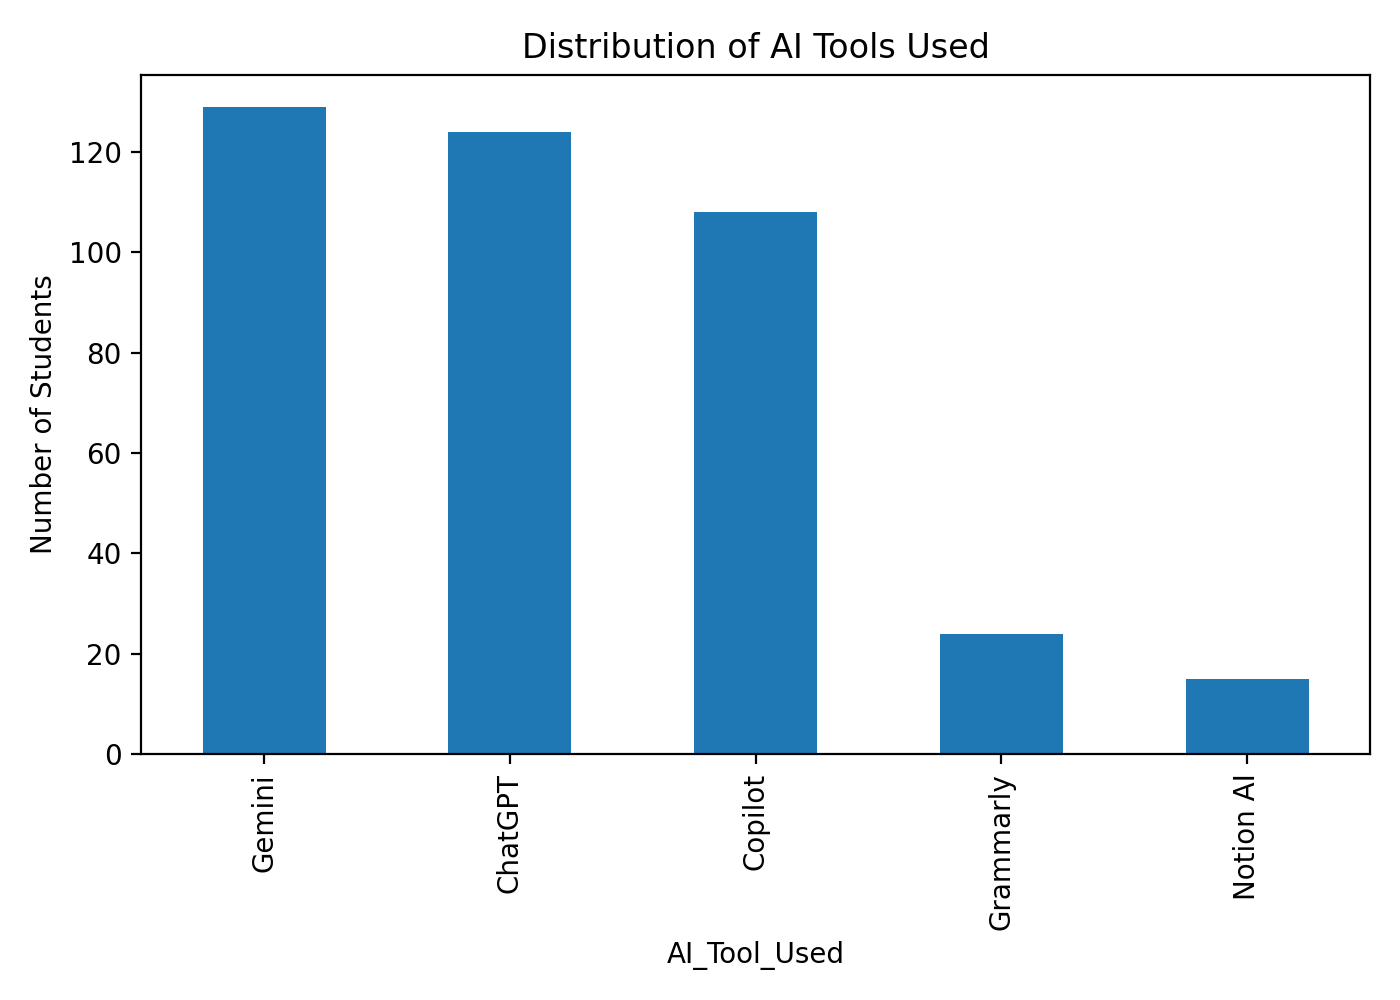
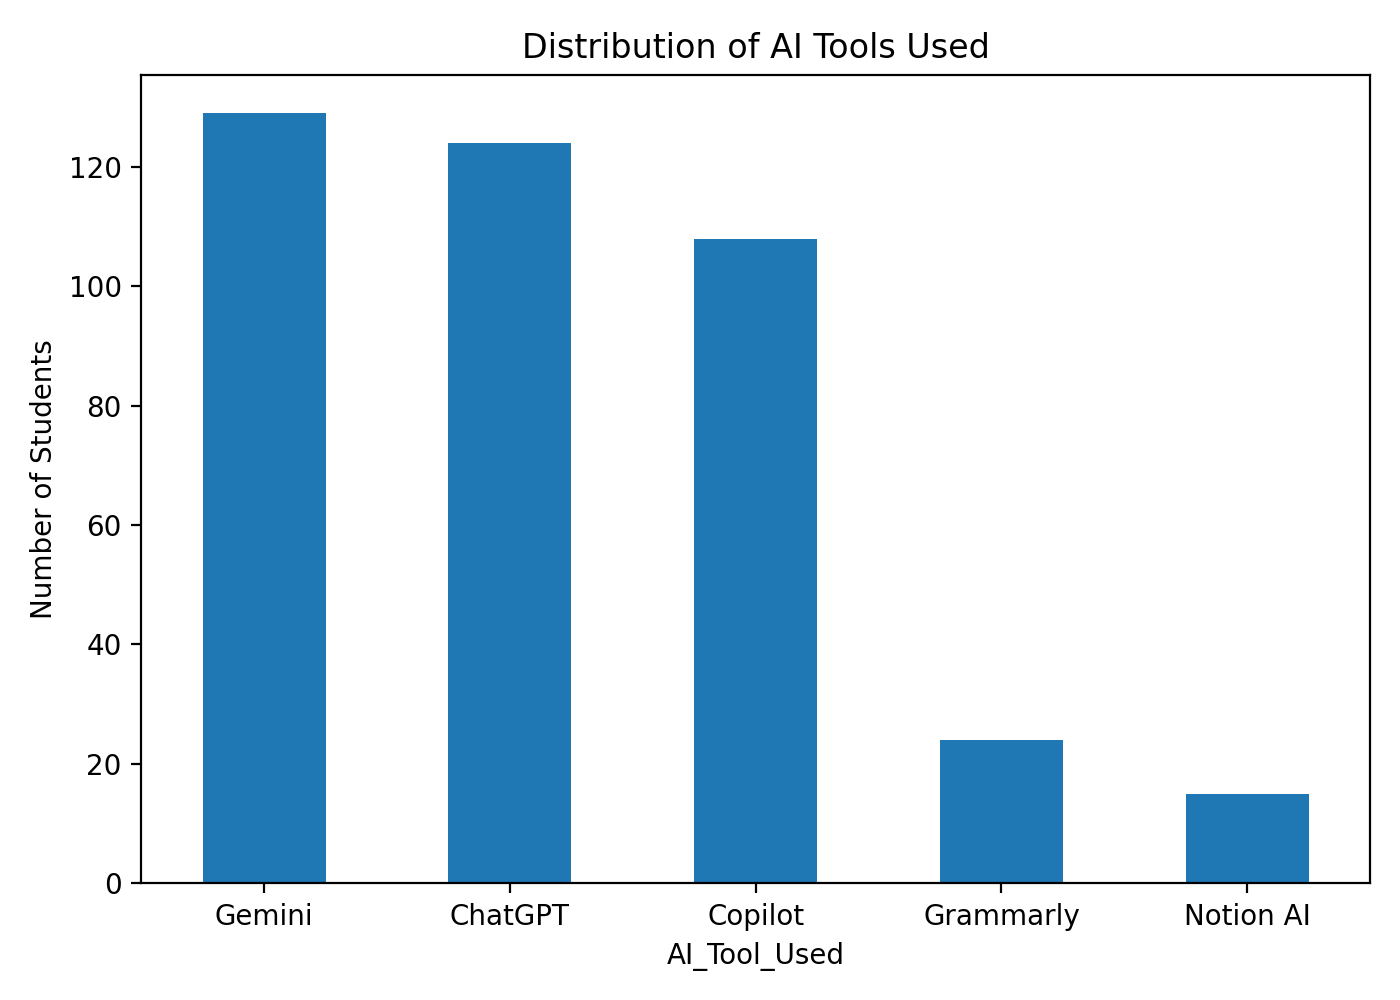
Make heatmap and bar chart labels easier to read
White text on dark confusion matrix cells, horizontal tick labels on
the distribution plots, and a more precise sentence about CV scores.

diff --git a/ai_student_life.py b/ai_student_life.py
@@ -143,7 +143,7 @@ def run_eda(df):
         (TARGET, "Distribution of Impact on Grades", "target_distribution.png"),
         ("AI_Tool_Used", "Distribution of AI Tools Used", "ai_tools_distribution.png"),
     ]:
-        ax = df[column].value_counts().plot(kind="bar", figsize=(7, 5))
+        ax = df[column].value_counts().plot(kind="bar", figsize=(7, 5), rot=0)
         ax.set_title(title)
         ax.set_ylabel("Number of Students")
         save_fig(filename)
@@ -292,7 +292,8 @@ def analyse_best_model(name, X, y, X_train, X_test, y_train, y_test):
     plt.yticks(range(len(labels)), labels)
     for i in range(len(labels)):
         for j in range(len(labels)):
-            plt.text(j, i, cm[i, j], ha="center", va="center", fontsize=11)
+            plt.text(j, i, cm[i, j], ha="center", va="center", fontsize=11,
+                     color="white" if cm[i, j] > cm.max() / 2 else "black")
     plt.title(f"Confusion Matrix - {name} (hold-out test)")
     plt.xlabel("Predicted")
     plt.ylabel("Actual")

diff --git a/README.md b/README.md
@@ -63,7 +63,7 @@ Hedefle en yüksek ilişki `City`'de görünüyor (Cramér's V 0.19). Ancak bu d
 
 ![CV karşılaştırması](results/figures/model_comparison_cv_f1.png)
 
-Üç sınıf dengeli olduğu için şans seviyesi yaklaşık 0.33. Modellerin hepsi 0.32 ile 0.38 arasında kalıyor. Dört model baseline'ın altında. Hold-out ve train/val/test sonuçlarında model sıralaması da her seferinde değişiyor: CV'de birinci olan Decision Tree, hold-out'ta KNN ve Gradient Boosting'in gerisinde. Bu da farkların büyük kısmının gürültü olduğunu gösteriyor.
+Üç sınıf dengeli olduğu için şans seviyesi yaklaşık 0.33. CV'de modellerin hepsi 0.32 ile 0.37 arasında kalıyor ve dört model baseline'ın altında. Hold-out'ta Logistic Regression 0.28'e kadar düşüyor. Hold-out ve train/val/test sonuçlarında model sıralaması da her seferinde değişiyor: CV'de birinci olan Decision Tree, hold-out'ta KNN ve Gradient Boosting'in gerisinde. Bu da farkların büyük kısmının gürültü olduğunu gösteriyor.
 
 Decision Tree için permutation testinde gerçek etiketlerle F1 0.370, karıştırılmış etiketlerle ortalama 0.310 çıktı (p ≈ 0.02). Ancak bu model altı model arasından en iyisi diye seçildiği için bu p-değeri iyimser. Çoklu karşılaştırma düzeltmesi yapılınca (ör. Bonferroni, 6 model) anlamlılık ortadan kalkıyor.
 
